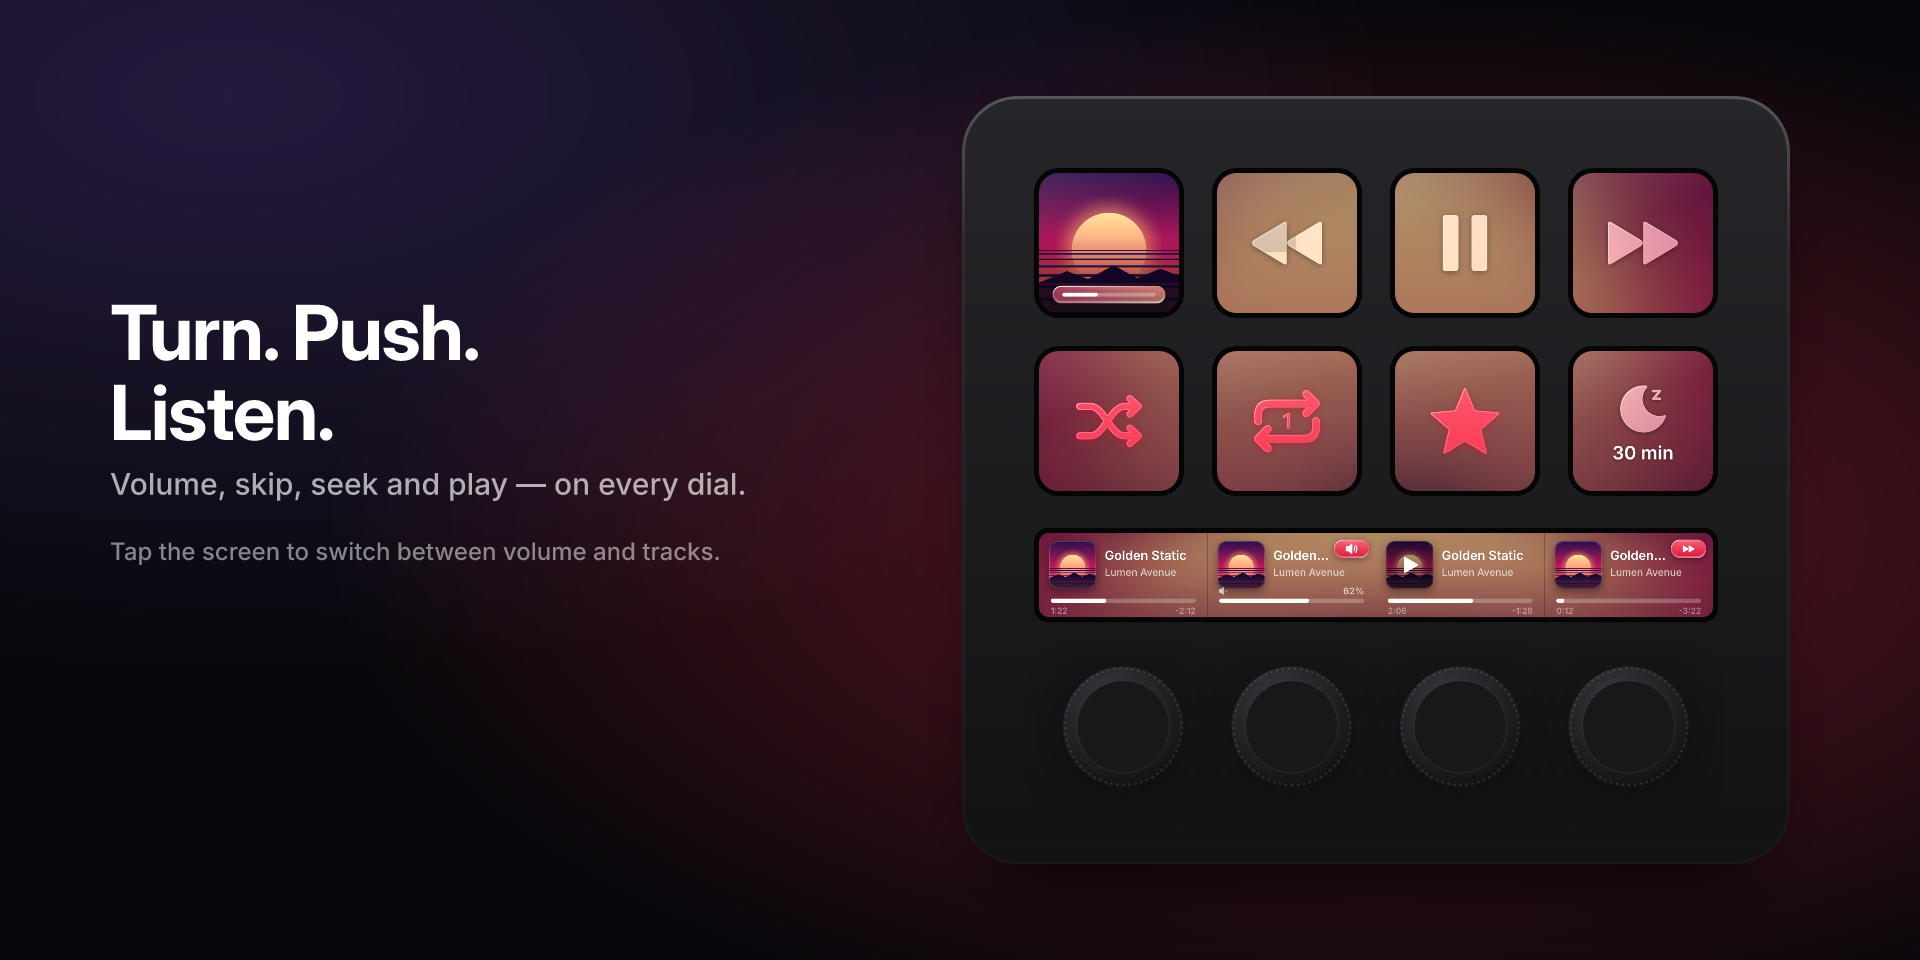
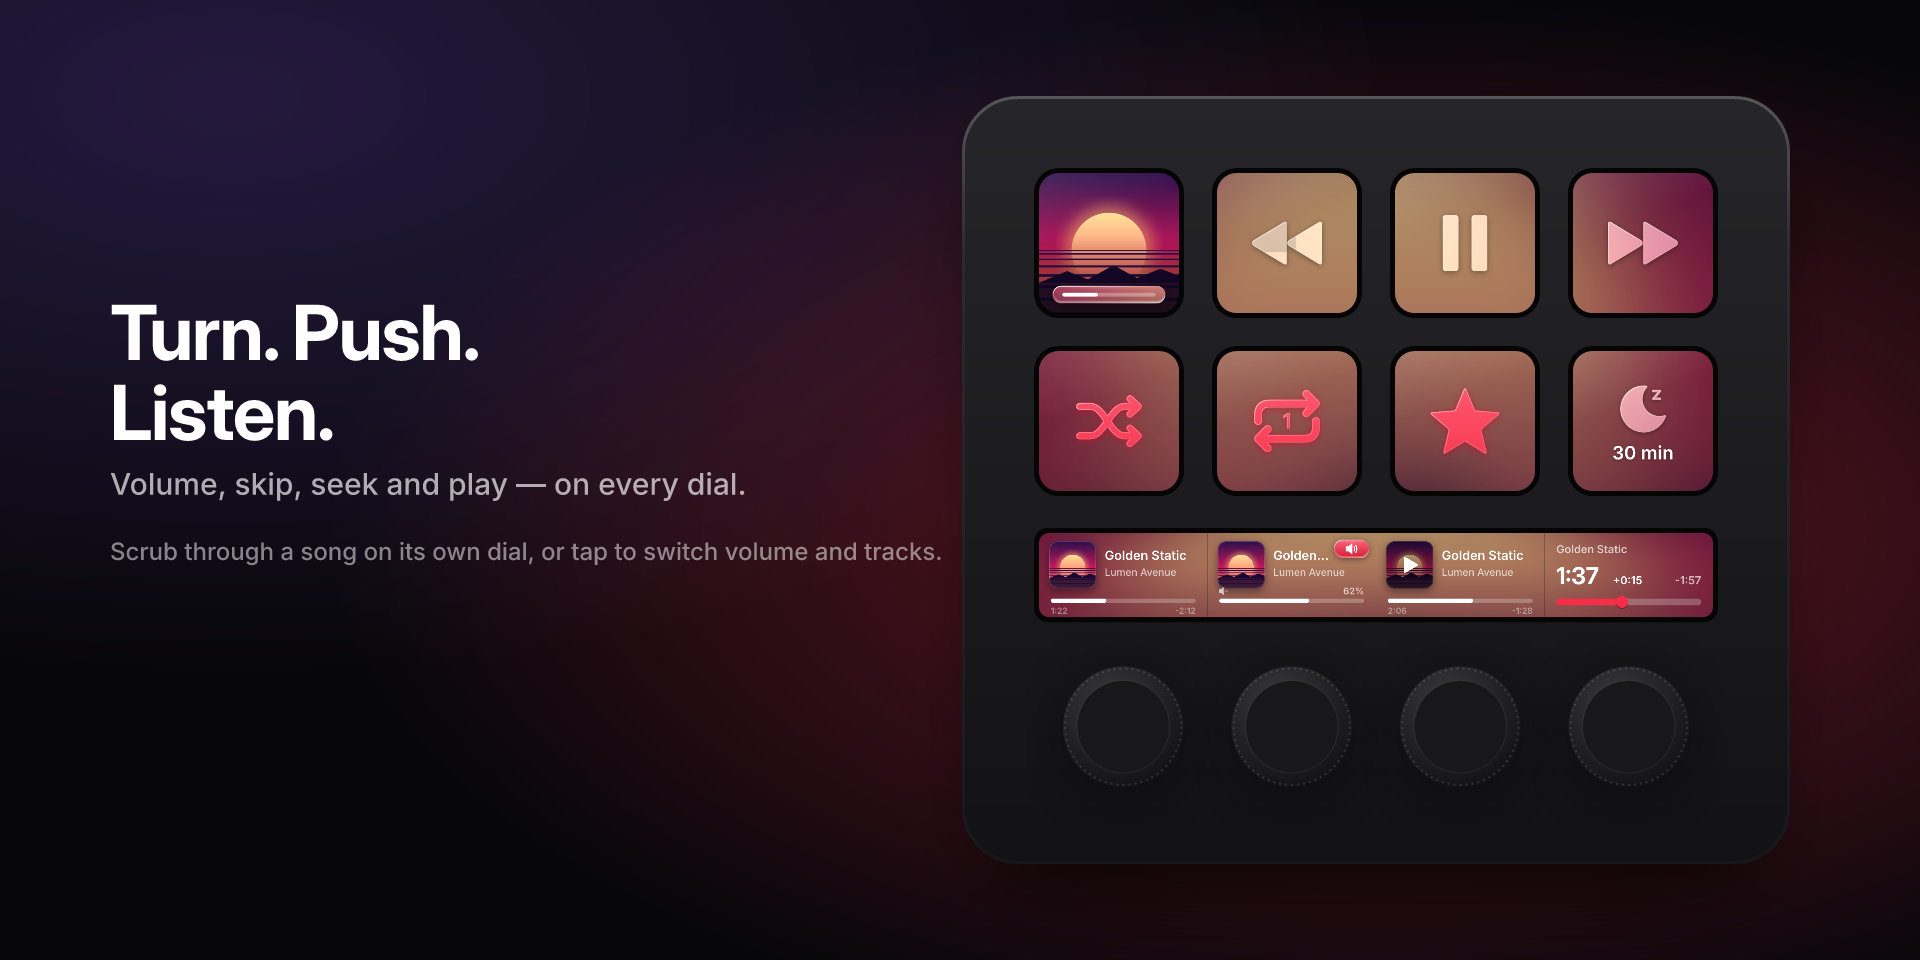
Add the Scrub and Browse Songs dials and the backdrop fade

Changed region(s): [[0.0625, 0.5625, 0.5, 0.5938], [0.8125, 0.5625, 0.9062, 0.6562]]

diff --git a/README.md b/README.md
@@ -17,18 +17,22 @@
 
 ## Features
 
-- **Liquid Glass keys** — every icon is a piece of glass lying on the blurred artwork of the album that's playing. The artwork is spread across your whole deck, so a full Stream Deck reads as one continuous image.
+- **Liquid Glass keys** — every icon is a piece of glass lying on the blurred artwork of the album that's playing. The artwork is spread across your whole deck, so a full Stream Deck reads as one continuous image. When a new album starts, the backdrop fades into its colours while the keys switch instantly.
 - **Playback** — play/pause, next, previous, shuffle and repeat, with the real state on every key.
 - **Now Playing** — album artwork with live progress on a key, the Stream Deck + touch strip or the Stream Deck Neo infobar.
 - **Volume** — up, down, mute or jump to a level; hold to keep adjusting. Controls Apple Music only, not your system volume.
 - **Playlists** — start a playlist with one key, browse all your playlists with a dial, or add the playing song to a playlist (the key lights up when the song is already in it).
 - **Favorite** — favorite the playing song.
 - **Sleep timer** — pause Apple Music after 5 minutes to 2 hours; extend, restart or stop it from the same key.
-- **Stream Deck + dial** — turn for volume or tracks, push to play/pause, push and turn to seek, tap to switch modes, hold to mute.
+- **Stream Deck + dials**
+  - **Multimedia** — turn for volume or tracks, push to play/pause, push and turn to seek, tap to switch modes, hold to mute.
+  - **Scrub** — turn to move through the song (slowly for single seconds, spin to cross the whole song), tap the timeline to jump there, hold to restart, push to play/pause.
+  - **Browse Songs** (macOS) — scroll through the songs of the playlist that's playing and push to play the one you pick.
+  - **Browse Playlists** — scroll through your playlists and push to play one.
 - **8 languages** — English, German, French, Spanish, Japanese, Korean, Simplified and Traditional Chinese.
 
 <p align="center">
-  <img src="screenshots/stream-deck-plus.png" alt="Stream Deck + with the Multimedia dial">
+  <img src="screenshots/stream-deck-plus.png" alt="Stream Deck + with the Multimedia and Scrub dials">
 </p>
 
 ## Platform support
@@ -40,7 +44,9 @@
 | Volume and mute | ✅ | ✅ |
 | Sleep timer, Multimedia dial | ✅ | ✅ |
 | Favorite | ✅ | 🧪 |
+| Scrub dial | ✅ | 🧪 |
 | Play Playlist, Browse Playlists | ✅ | 🧪 |
+| Browse Songs dial | ✅ | — |
 | Add to Playlist | ✅ | — |
 
 🧪 = experimental. Apple Music for Windows offers far fewer ways for other apps to control it than the Mac version, so these features depend on the app's user interface and may break when Apple updates it.
